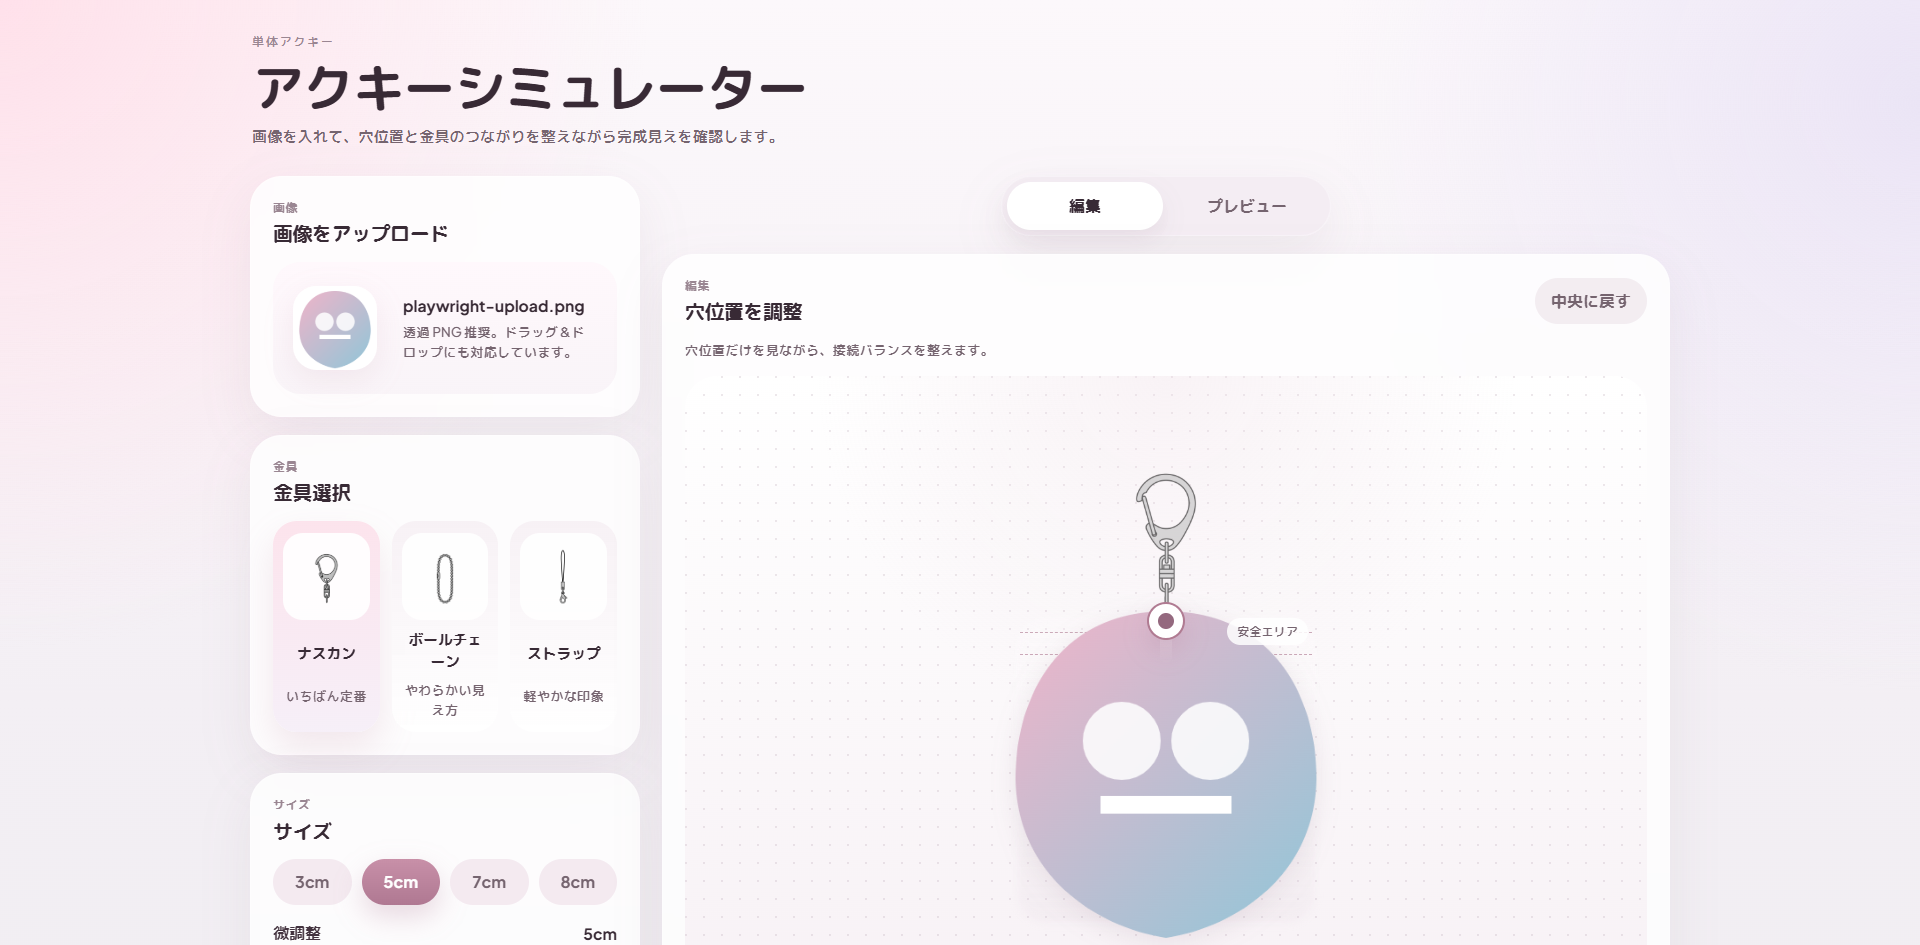
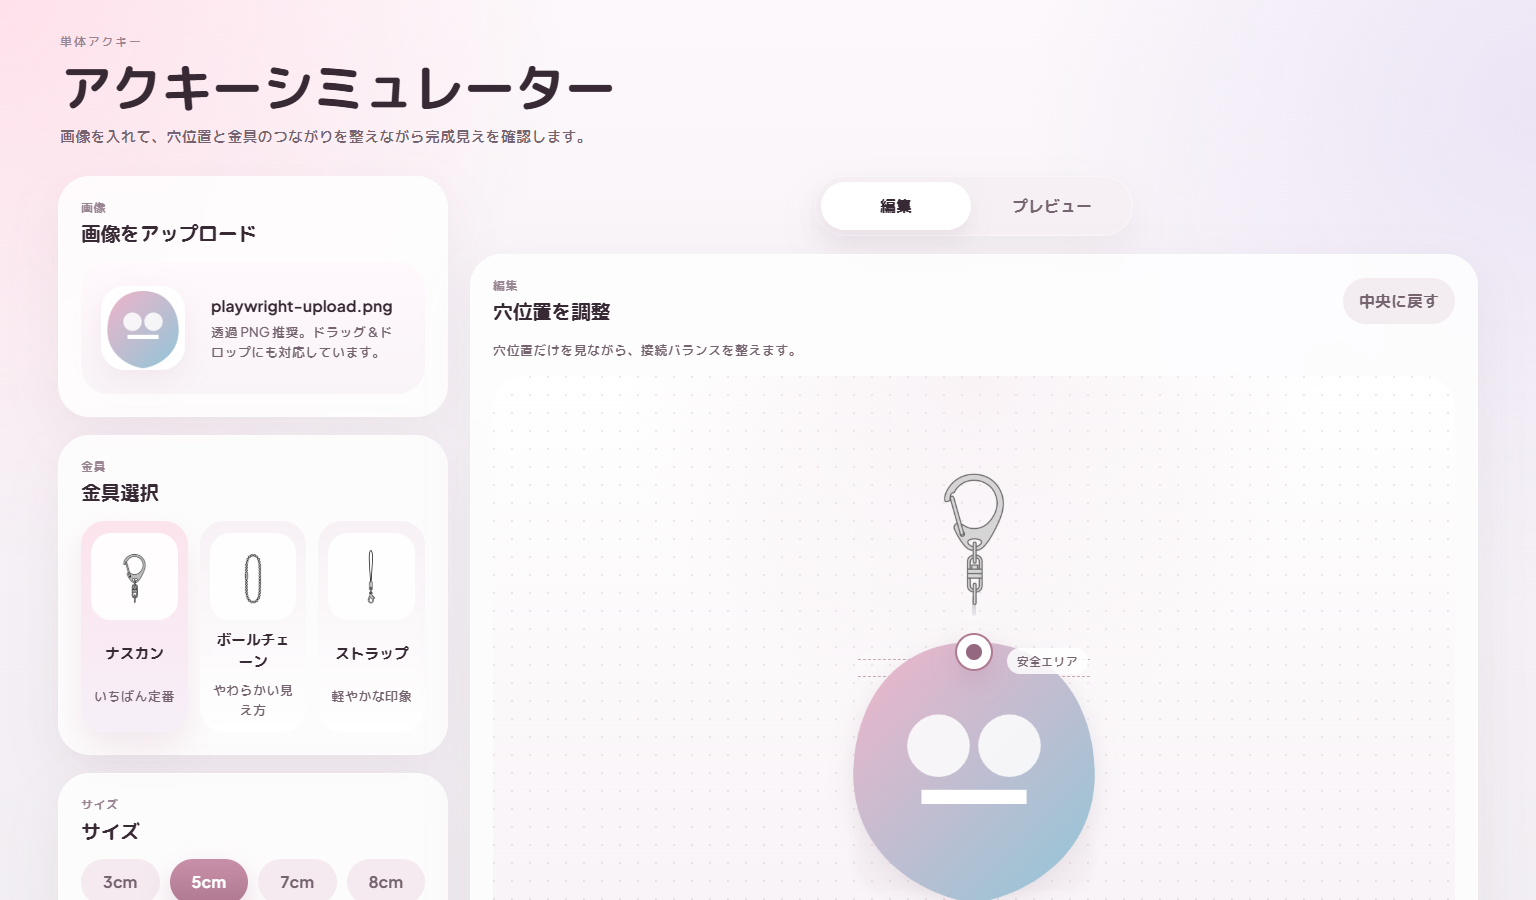
style: refine stitch-inspired finish

diff --git a/src/styles.css b/src/styles.css
@@ -137,8 +137,8 @@ img {
 }
 
 .summary-card {
-  background: linear-gradient(135deg, rgba(250, 229, 236, 0.96), rgba(245, 233, 241, 0.94));
-  box-shadow: var(--shadow-float);
+  background: linear-gradient(135deg, rgba(251, 224, 234, 0.98), rgba(246, 232, 242, 0.96));
+  box-shadow: 0 26px 62px rgba(168, 120, 145, 0.14);
   border-radius: 32px;
   padding: 18px 18px 16px;
   display: grid;
@@ -345,12 +345,12 @@ img {
 }
 
 .canvas-switch {
-  width: min(100%, 330px);
+  width: min(100%, 318px);
   margin: 0 auto;
   padding: 5px;
   border-radius: 999px;
-  background: rgba(243, 237, 242, 0.92);
-  box-shadow: var(--shadow-soft);
+  background: rgba(246, 239, 244, 0.88);
+  box-shadow: 0 16px 36px rgba(118, 88, 108, 0.08);
   display: flex;
   align-items: center;
   justify-content: space-between;
@@ -398,9 +398,9 @@ img {
 }
 
 .primary-button {
-  background: linear-gradient(180deg, #c68da5, #a97089);
+  background: linear-gradient(180deg, #c88fa8, #a76682);
   color: #ffffff;
-  box-shadow: 0 14px 28px rgba(169, 112, 137, 0.22);
+  box-shadow: 0 16px 30px rgba(169, 112, 137, 0.24);
 }
 
 .secondary-button {
